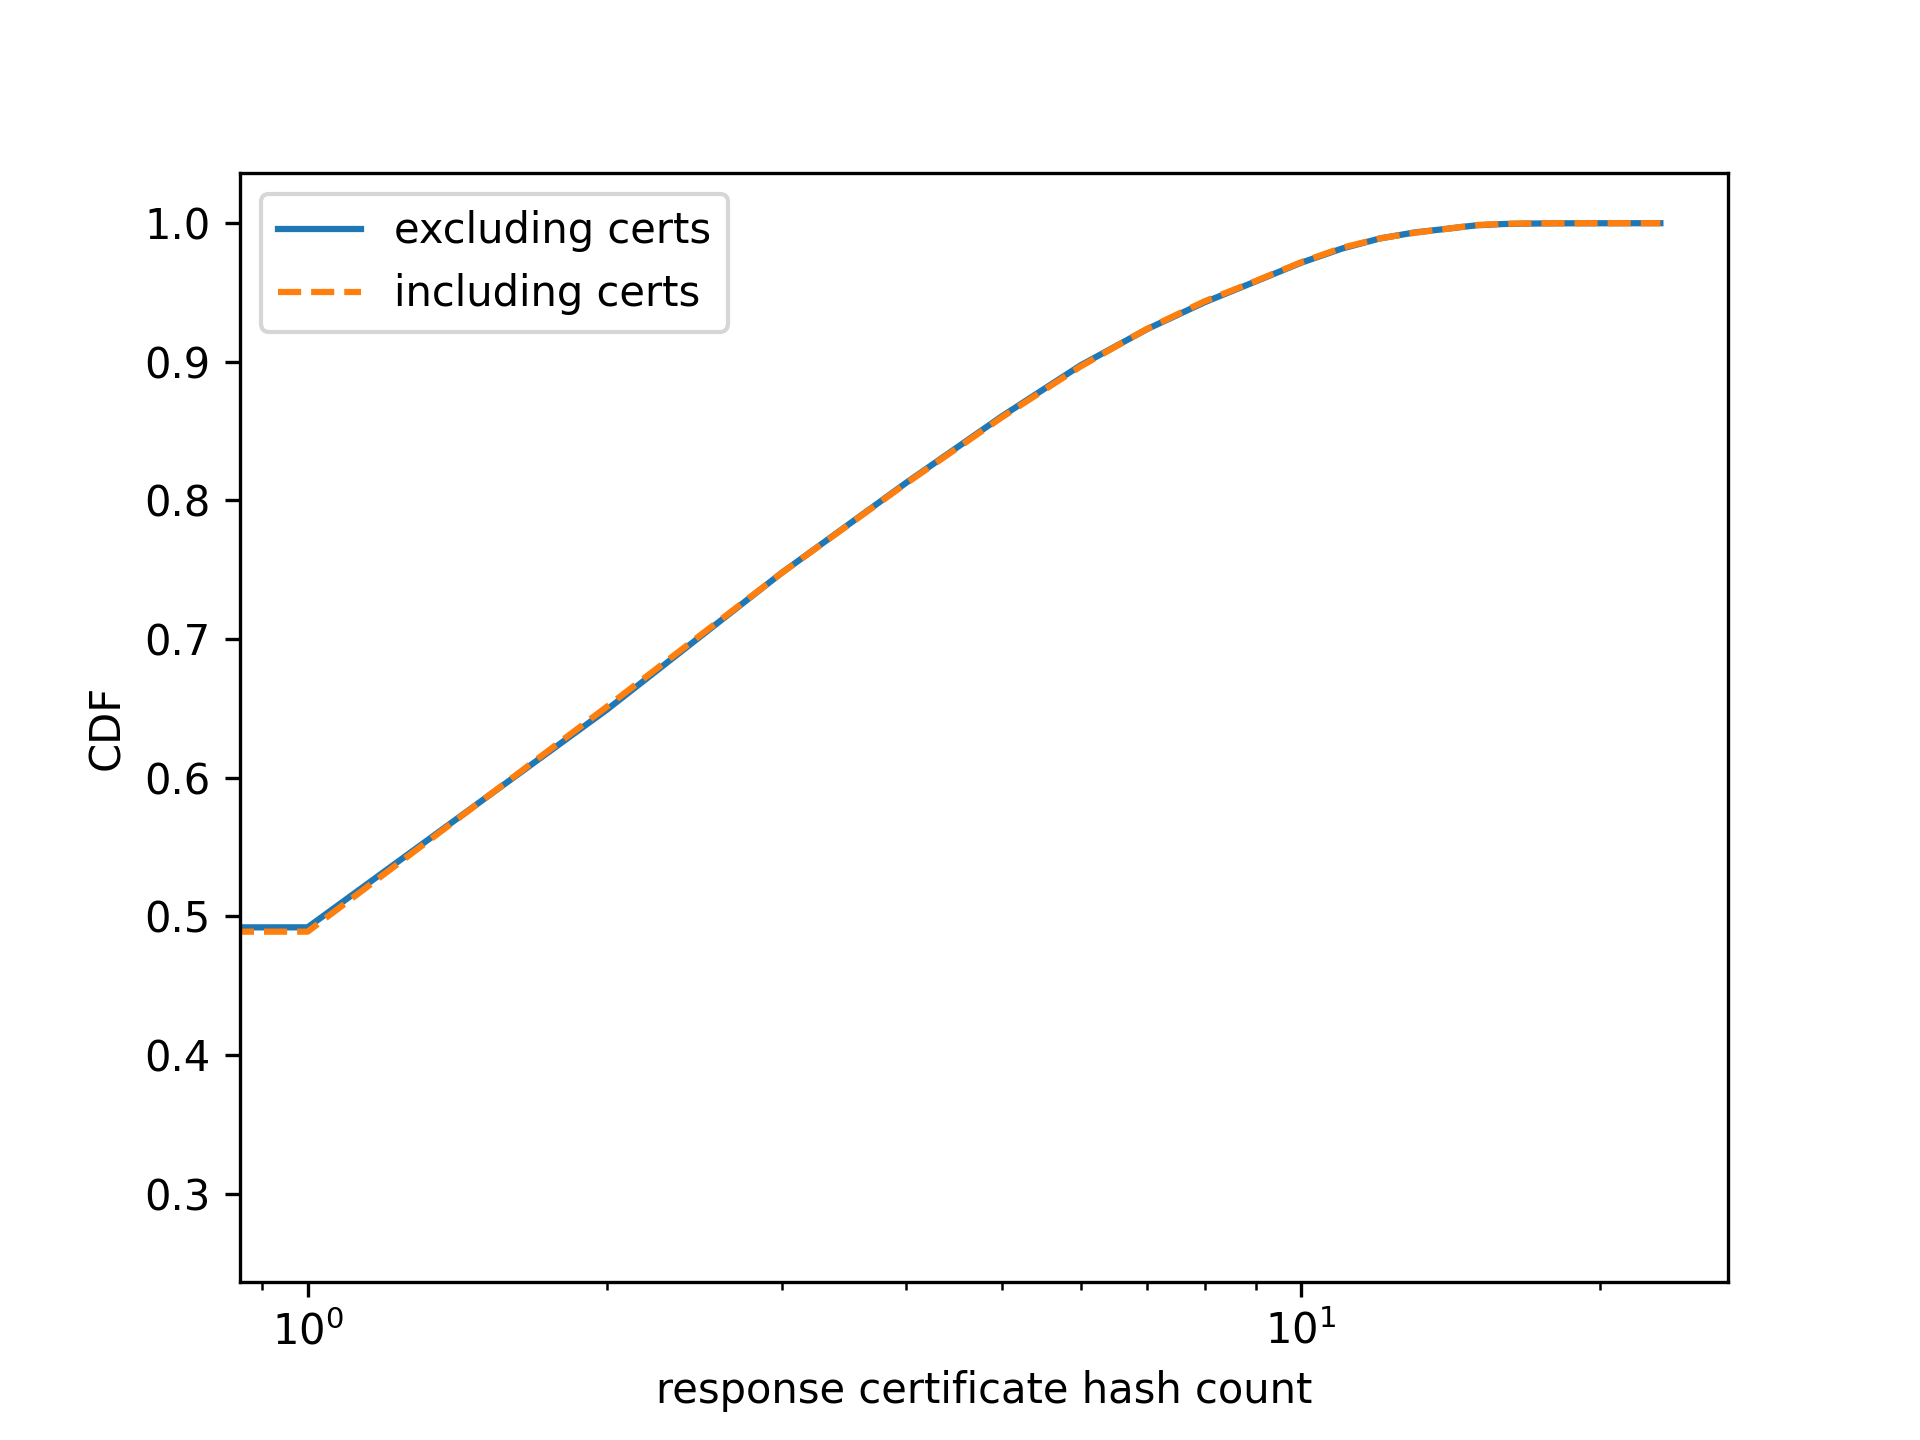
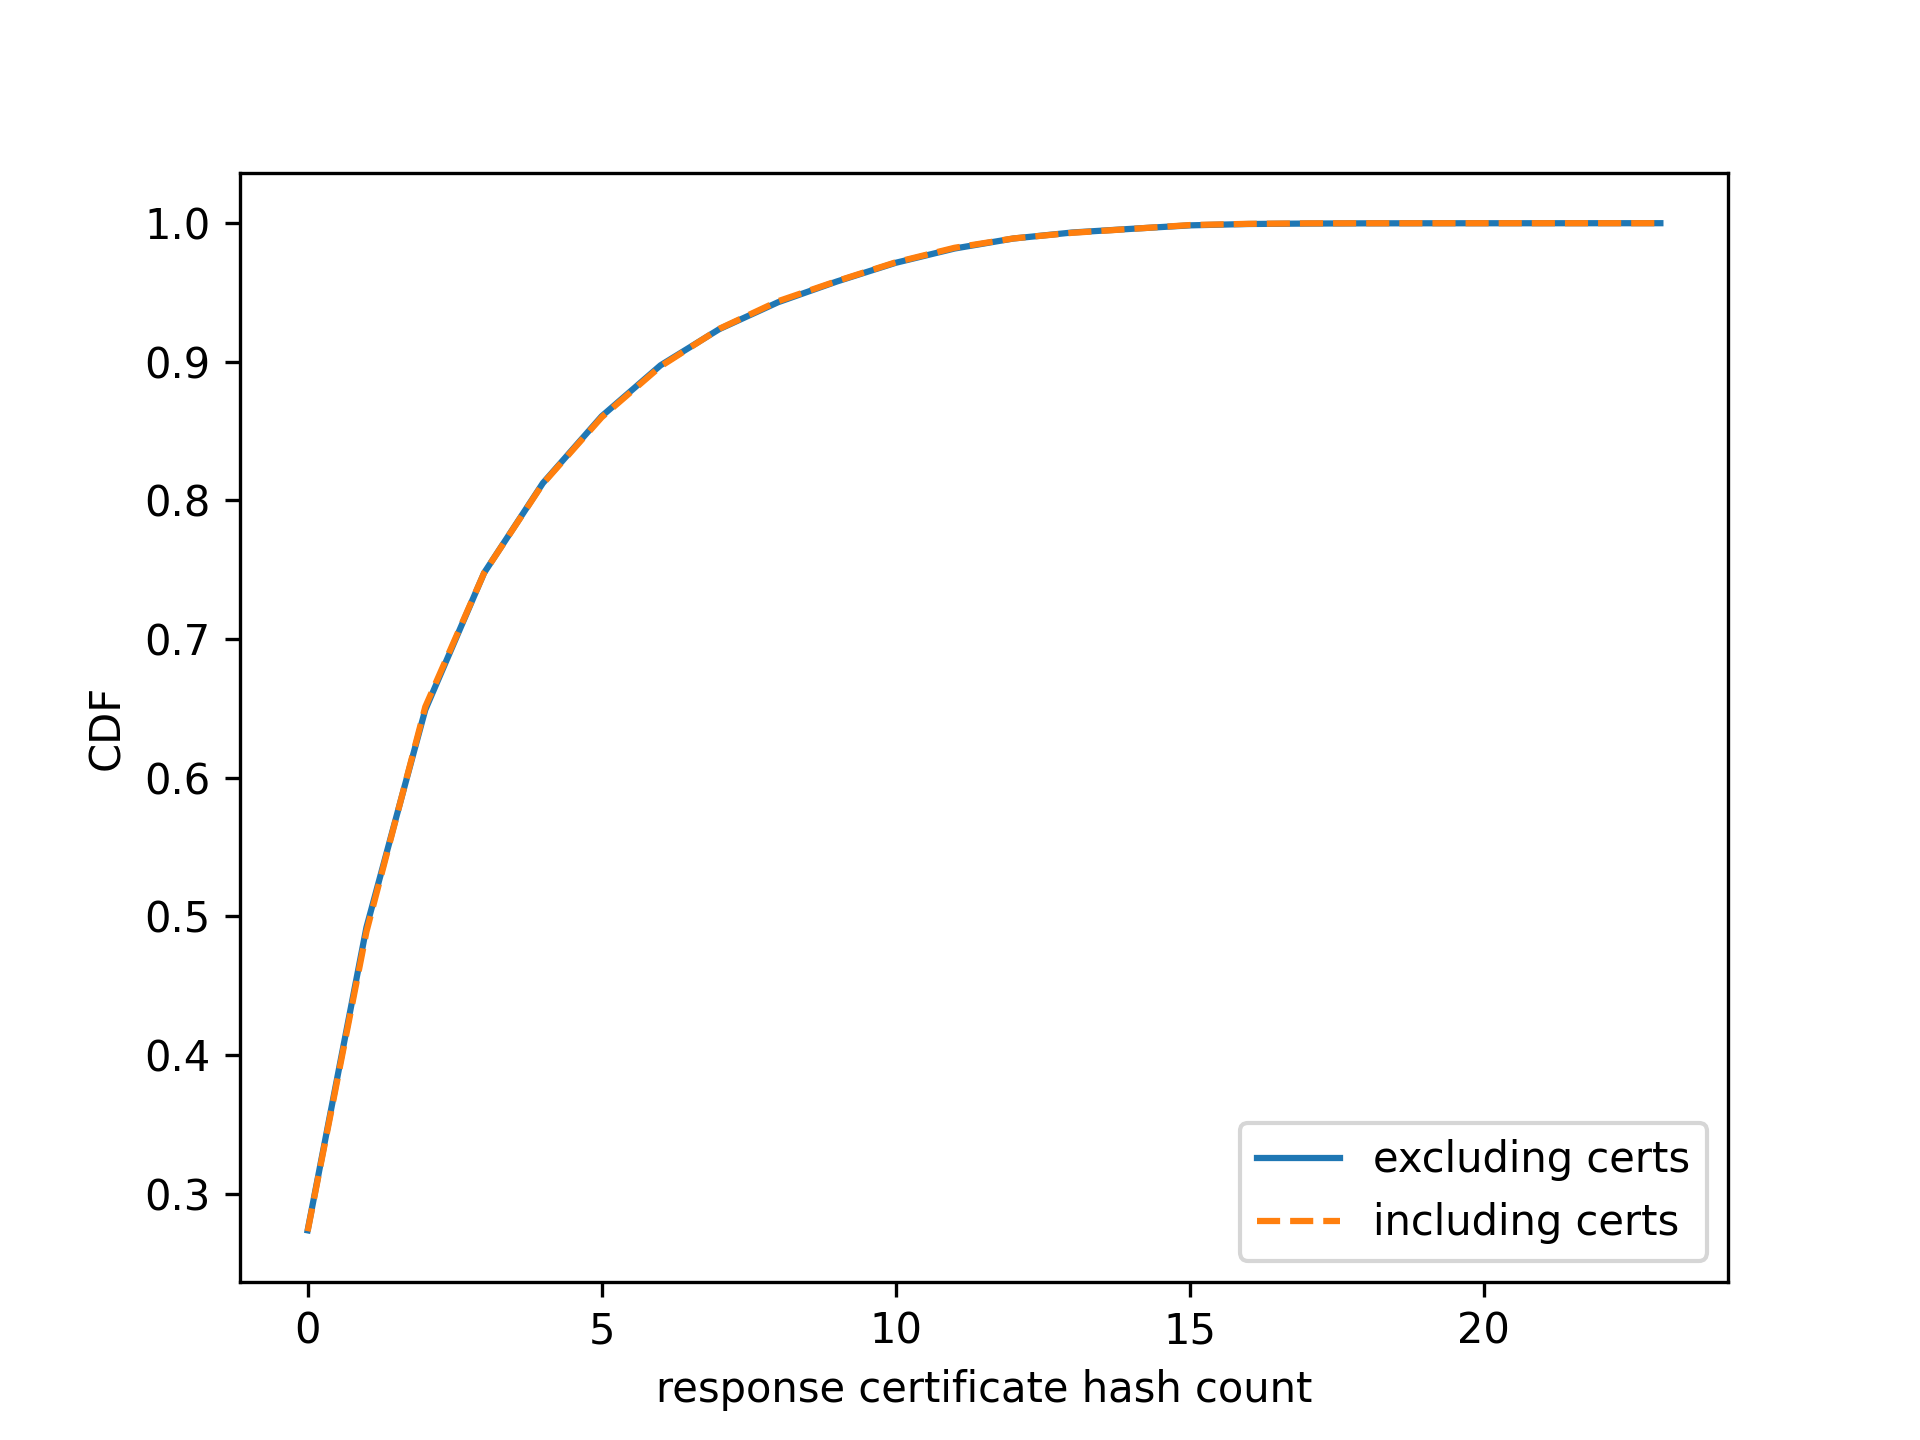
change base of x-axis

diff --git a/performance/client/client-performance-plot.py b/performance/client/client-performance-plot.py
@@ -236,7 +236,7 @@ def main(
         df_including_certificates['certificate_hash_count'],
         f"{output_path}/response-hash-count-cdf.png",
         show_quantile=False,
-        base=10
+        base=None
     )
 
     # consistency_proof_size
